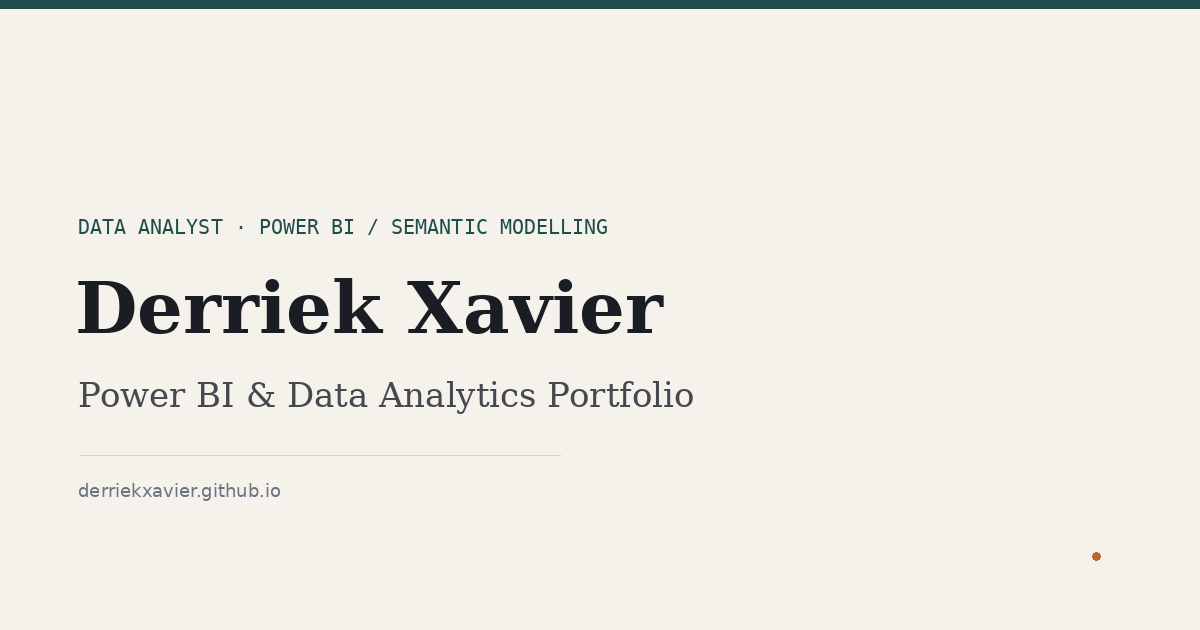
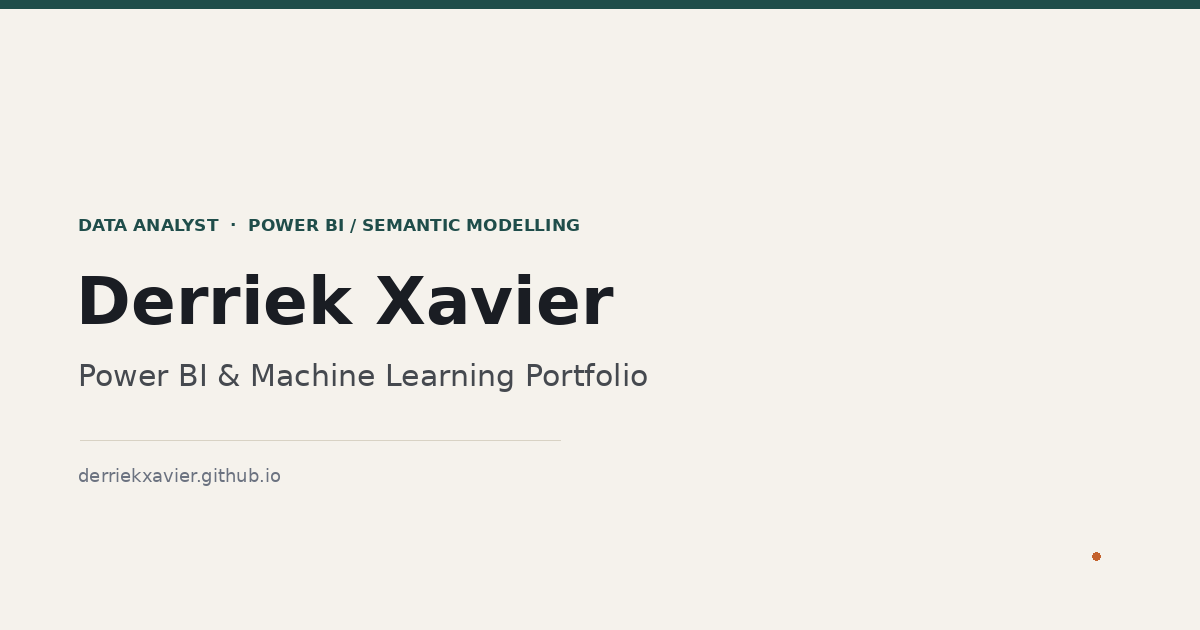
Add files via upload

diff --git a/assets/style.css b/assets/style.css
@@ -1,4 +1,4 @@
-@import url('https://fonts.googleapis.com/css2?family=Source+Serif+4:opsz,wght@8..60,400;8..60,500;8..60,600;8..60,700&family=Inter:wght@400;500;600&family=IBM+Plex+Mono:wght@400;500&display=swap');
+@import url('https://fonts.googleapis.com/css2?family=Archivo:wght@500;600;700;800&family=Inter:wght@400;500;600&family=IBM+Plex+Mono:wght@400;500&display=swap');
 
 :root {
   --paper: #F5F2EC;
@@ -28,10 +28,11 @@ body {
 }
 
 h1, h2, h3 {
-  font-family: 'Source Serif 4', Georgia, serif;
-  font-weight: 600;
+  font-family: 'Archivo', 'Inter', system-ui, sans-serif;
+  font-weight: 700;
+  letter-spacing: -0.01em;
   color: var(--ink);
-  line-height: 1.15;
+  line-height: 1.1;
   margin: 0;
 }
 
@@ -62,8 +63,8 @@ a:hover { color: var(--rust); }
   margin: 0 auto;
 }
 .site-header .brand {
-  font-family: 'Source Serif 4', serif;
-  font-weight: 600;
+  font-family: 'Archivo', 'Inter', system-ui, sans-serif;
+  font-weight: 700;
   font-size: 1.15rem;
   color: var(--ink);
   text-decoration: none;
@@ -104,13 +105,15 @@ footer.site-footer a { color: var(--ink-soft); }
 }
 .hero .eyebrow {
   color: var(--teal);
-  font-size: 0.85rem;
+  font-size: 0.8rem;
   margin-bottom: 14px;
-  font-family: 'IBM Plex Mono', monospace;
+  font-weight: 700;
+  letter-spacing: 0.06em;
+  text-transform: uppercase;
 }
 .hero h1 {
   font-size: clamp(2.1rem, 4vw, 3.1rem);
-  max-width: 35ch;
+  max-width: 24ch;
   margin-bottom: 22px;
 }
 .hero p.lede {
@@ -137,7 +140,7 @@ footer.site-footer a { color: var(--ink-soft); }
 }
 .stat-strip div:first-child { border-left: none; padding-left: 0; }
 .stat-strip .num {
-  font-family: 'IBM Plex Mono', monospace;
+  font-weight: 700;
   font-size: 1.5rem;
   color: var(--teal);
   display: block;
@@ -180,8 +183,10 @@ footer.site-footer a { color: var(--ink-soft); }
 }
 .proj-card:hover { background: #fff; }
 .proj-card .tag {
-  font-family: 'IBM Plex Mono', monospace;
-  font-size: 0.75rem;
+  font-size: 0.72rem;
+  font-weight: 700;
+  letter-spacing: 0.05em;
+  text-transform: uppercase;
   color: var(--teal);
   margin-bottom: 14px;
 }
@@ -219,8 +224,8 @@ footer.site-footer a { color: var(--ink-soft); }
   padding: 0;
 }
 .about-band .skills-list li {
-  font-family: 'IBM Plex Mono', monospace;
   font-size: 0.82rem;
+  font-weight: 500;
   border: 1px solid rgba(239,237,228,0.35);
   padding: 5px 11px;
   color: #EFEDE4;
@@ -233,8 +238,8 @@ footer.site-footer a { color: var(--ink-soft); }
   border-bottom: 1px solid var(--line-strong);
 }
 .proj-hero .breadcrumb {
-  font-family: 'IBM Plex Mono', monospace;
-  font-size: 0.8rem;
+  font-size: 0.82rem;
+  font-weight: 500;
   color: var(--ink-soft);
   margin-bottom: 18px;
 }
@@ -255,8 +260,10 @@ footer.site-footer a { color: var(--ink-soft); }
   font-size: 0.9rem;
 }
 .proj-hero .meta-row dt {
-  font-family: 'IBM Plex Mono', monospace;
   font-size: 0.72rem;
+  font-weight: 700;
+  letter-spacing: 0.04em;
+  text-transform: uppercase;
   color: var(--teal);
   margin-bottom: 4px;
 }
@@ -274,7 +281,7 @@ footer.site-footer a { color: var(--ink-soft); }
 }
 .proj-kpis div:first-child { border-left: none; }
 .proj-kpis .num {
-  font-family: 'IBM Plex Mono', monospace;
+  font-weight: 700;
   font-size: 1.4rem;
   color: var(--rust);
   display: block;
@@ -305,8 +312,8 @@ figure img {
   border: 1px solid var(--line-strong);
 }
 figcaption {
-  font-family: 'IBM Plex Mono', monospace;
-  font-size: 0.78rem;
+  font-size: 0.82rem;
+  font-style: italic;
   color: var(--ink-soft);
   margin-top: 8px;
 }
@@ -316,6 +323,7 @@ figcaption {
   color: #E7E4D9;
   padding: 20px 22px;
   overflow-x: auto;
+  font-family: 'IBM Plex Mono', ui-monospace, monospace;
   font-size: 0.85rem;
   line-height: 1.65;
   margin: 18px 0 24px;
@@ -324,8 +332,8 @@ figcaption {
 
 .pill-row { display: flex; flex-wrap: wrap; gap: 8px; margin: 14px 0 6px; }
 .pill {
-  font-family: 'IBM Plex Mono', monospace;
-  font-size: 0.76rem;
+  font-size: 0.78rem;
+  font-weight: 500;
   border: 1px solid var(--line-strong);
   padding: 4px 10px;
   color: var(--teal);

diff --git a/index.html b/index.html
@@ -41,7 +41,8 @@
   <section class="hero">
     <div class="wrap">
       <div class="eyebrow">DATA ANALYST · POWER BI / SEMANTIC MODELLING</div>
-      <h1>Power BI reports and machine learning work I've done</h1>
+      <h1>Dashboards built on models that hold up to scrutiny.</h1>
+      <p class="lede">I build Power BI reports starting from the data model: cleaning in Power Query, a modelled schema, then DAX. Previously a Data Analyst Intern at Lenador Systems, Abu Dhabi.</p>
       <div class="hero-links">
         <a href="mailto:derriekx8@gmail.com">derriekx8@gmail.com</a>
         <a href="tel:+447435381660">+44 7435 381 660</a> / <a href="tel:+971563935540">+971 56 393 5540</a>
@@ -89,7 +90,7 @@
   <section class="about-band">
     <div class="wrap">
       <h2>Background</h2>
-      <p>MSc in Data Science and Business Analytics (Distinction) from the University of Plymouth, and a BSc in Computer Science from Heriot-Watt University Dubai. Most recently a Data Analyst Intern at Lenador Systems in Abu Dhabi.</p>
+      <p>MSc in Data Science and Business Analytics (Distinction) from the University of Plymouth, and a BSc in Computer Science from Heriot-Watt University Dubai. Most recently a Data Analyst Intern at Lenador Systems in Abu Dhabi, working across POS, e-commerce, and internal data solutions. Before that, engine modelling work at HydroStar EU and operational KPI reporting at Best Care Facilities Management.</p>
       <ul class="skills-list">
         <li>Power BI Desktop</li>
         <li>Power Query M</li>
@@ -108,7 +109,7 @@
 <footer class="site-footer">
   <div class="wrap">
     <span>Derriek Xavier · Abu Dhabi / London</span>
-    <span><a href="https://www.linkedin.com/in/derriekxavier/" target="_blank" rel="noopener">LinkedIn</a> · <a href="mailto:derriekx8@gmail.com">derriekx8@gmail.com</a> · <a href="tel:+447435381660">+971 56 393 5540</a> / <a href="tel:+971563935540">+44 7435 381 660</a></span>
+    <span><a href="https://www.linkedin.com/in/derriekxavier/" target="_blank" rel="noopener">LinkedIn</a> · <a href="mailto:derriekx8@gmail.com">derriekx8@gmail.com</a> · <a href="tel:+447435381660">+44 7435 381 660</a> / <a href="tel:+971563935540">+971 56 393 5540</a></span>
   </div>
 </footer>
 
